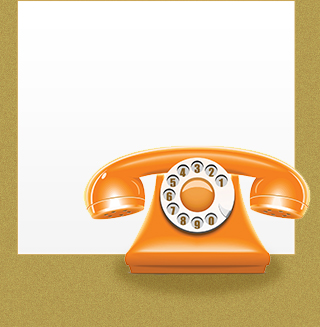
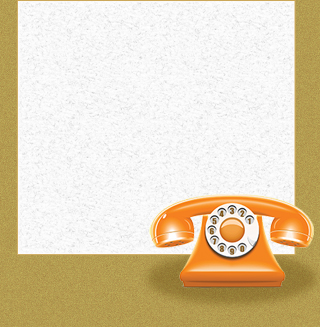
More changes to the layout of the webpage, support and homepage layout finished.

Changed region(s): [[0.25, 0.4281, 1.0, 0.9174]]

diff --git a/trunk/support.html b/trunk/support.html
@@ -1,61 +1,79 @@
 <!DOCTYPE html PUBLIC "-//W3C//DTD XHTML 1.0 Transitional//EN" "http://www.w3.org/TR/xhtml1/DTD/xhtml1-transitional.dtd">
 <html xmlns="http://www.w3.org/1999/xhtml">
 
-	<head>
-		<meta http-equiv="Content-Type" content="text/html; charset=utf-8" />
-        <script type="text/javascript" src="x3dom/x3dom.js"> </script>
-        <script type="text/javascript" src="js/jquery-1.10.2.min.js"> </script>
-        <script type="text/javascript" src="js/javascript.js"> </script>
+<head>
+	<meta charset="UTF-8">
+		<link rel="stylesheet" type="text/css" href="css/stylesheet.css">
         <link rel="stylesheet" href="x3dom/x3dom.css" type="text/css" />
-        <link rel="stylesheet" href="css/stylesheet.css" type="text/css" media="screen"/>
-		<title>Pizza Blast Support Page</title>
-	</head>
+		<title>Welcome @ Pizza Blast</title>
+</head>
 
-	<body>
-    	<div id="wrapper">
-            <div id="topfooter">
-            <p> </p>
-    		</div>
-            <div id="top">                   
-            	<div id="logo">
-            		<img src="images/logo.png" width="550" height="161"/>
-            	</div>
-                
-                <nav id="mainnavigation">
-      				<ul>
-         				<li><a href="index.html">Startseite</a></li>
-                        <li><a href="pizzacreator.html">Pizza Creator</a></li>
-                        <li><a href="#">Bestellübersicht</a></li>
-                        <li><a href="support.html" class="thispage">Contact Us</a></li>
-                        <li><a href="login.html">Login / Registrierung</a></li>
-                    </ul>
-                </nav>
-            </div>
-            <div id="login">
-            <h1>Kontaktformular</h1>
-            <p><br /></p>
-            <h3>Sie haben Fragen, Anregungen oder gar Kritik? Kein Problem! Bitte zögern Sie sich uns über dieses Kontaktformular zu kontaktieren. Wir werden uns so schnell wie möglich mit Ihnen in Verbindung setzen.</h3>
+<body>
+ <div id="header">
+   <div>
+			<ul class="first">
+				<li><a href="index.html">Home</a></li>
+				<li><a href="pizzacreator.html">Pizza Creator</a></li>
+			</ul>
+			<div>
+				<a href="index.html"><img src="images/logo2.png" alt="Logo" width="180" height="163"></a>
+	   </div>
+			<ul>
+				<li><a href="support.html">Support</a></li>
+				<li><a href="login.html">Login</a></li>
+			</ul>
+		</div>
+ 	</div>
+	<div id="content">
+		<div>
+			<h1>Kontaktformular</h1>
+			<p>Sie haben Fragen, Anregungen oder gar Kritik? Kein Problem! Bitte zögern Sie sich uns über dieses Kontaktformular zu kontaktieren. Wir werden uns so schnell wie möglich mit Ihnen in Verbindung setzen.</p>
             <p><br /></p>
             <form action="" method="post">
             <p>Name: <input type="text" name="email" /></p>
             <p>E-Mail: <input type="text" name="email" /></p>
-            <p>Ihr Text: <textarea rows="10"></textarea></p>
-            <p><br /></p>
-            <input type="submit" />
+            <p>Ihr Text: <textarea rows="10"></textarea> <input type="submit" /></p>
             </form>
-            </div>
-            <p><br /></p>
-            <p><br /></p>
-            <p><br /></p>
-            <p><br /></p>
-            <p><br /></p>
-            <p><br /></p>
-            <p><br /></p>
-            <p><br /></p>
-            </body>
-            <div id="footer">
-           Copyright: Tobias Brückner, Nena Zimmermann, Jenny Wüstrich, Juliane Gehb
-            </div>
-        </div>
-        </body>
+		</div>
+	</div>
+		<div id="footer">
+		<div>
+			<ul>
+				<li id="pasta">
+					<div>
+						<span>Pizza Creator</span>
+						<p>Bla bla bla</p>
+						<a href="index.html" class="more">More</a>
+					</div>
+				</li>
+				<li id="pizza">
+					<div>
+						<span>Pizza</span>
+						<p> More Bla</p>
+						<a href="index.html" class="more">More</a>
+					</div>
+				</li>
+				<li id="callus">
+					<div>
+						<span>Call us now!</span>
+						<b>NUMBER</b>
+					</div>
+				</li>
+			</ul>
+		</div>
+		<div class="section">
+			<div>
+				<p>&copy; Copyright &copy; 2013. Erstellt für die Hochschule Fulda von Tobias Brückner, Jenny Wüstrich, Nena Zimmermann und Juliane Gehb</p>
+				<div>
+					<span>Finde uns </br> auf:</span>
+					<div>
+						<a href="http://facebook.com/" class="facebook" target="_blank"></a>
+						<a href="http://linkedin.com/" class="linked-in" target="_blank"></a>
+						<a href="http://twitter.com/" class="twitter" target="_blank"></a>
+					</div>
+                </div>
+			</div>
+		</div>
+	</div>
+</body>
 </html>

diff --git a/trunk/index.html b/trunk/index.html
@@ -15,7 +15,7 @@
 				<li><a href="pizzacreator.html">Pizza Creator</a></li>
 			</ul>
 			<div>
-				<a href="index.html"><img src="images/logo.jpg" alt="Logo" width="200" height="101"></a>
+				<a href="index.html"><img src="images/logo2.png" alt="Logo" width="180" height="163"></a>
 	   </div>
 			<ul>
 				<li><a href="support.html">Support</a></li>
@@ -57,7 +57,7 @@
 			<div>
 				<p>&copy; Copyright &copy; 2013. Erstellt für die Hochschule Fulda von Tobias Brückner, Jenny Wüstrich, Nena Zimmermann und Juliane Gehb</p>
 				<div>
-					<span>Get social </br>with us:</span>
+					<span>Finde uns </br> auf:</span>
 					<div>
 						<a href="http://facebook.com/" class="facebook" target="_blank"></a>
 						<a href="http://linkedin.com/" class="linked-in" target="_blank"></a>

diff --git a/trunk/css/stylesheet.css b/trunk/css/stylesheet.css
@@ -304,7 +304,7 @@ p a
 
 #footer div ul li div span {
 	background: url(../images/bg-heading.jpg) no-repeat;
-	color: #2f9a18;
+	color: #C00;
 	display: block;
 	font-size: 24px;
 	font-weight: bold;
@@ -360,7 +360,7 @@ p a
 }
 
 #footer div.section div p {
-	color: #809b58;
+	color: #E7D186;
 	float: left;
 	font-family: Trebuchet MS;
 	font-size: 10px;
@@ -369,7 +369,7 @@ p a
 }
 
 #footer div.section div div {
-	color: #809d5d;
+	color: #E9D68C;
 	float: right;
 	font-size: 16px;
 	padding: 10px 0 0;
